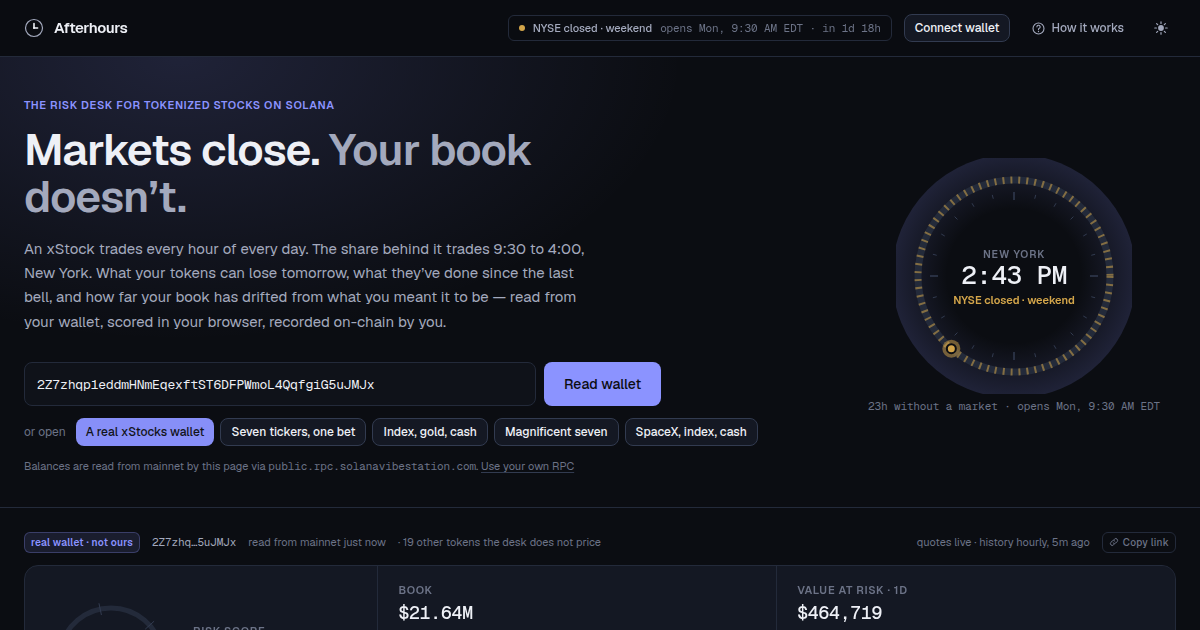
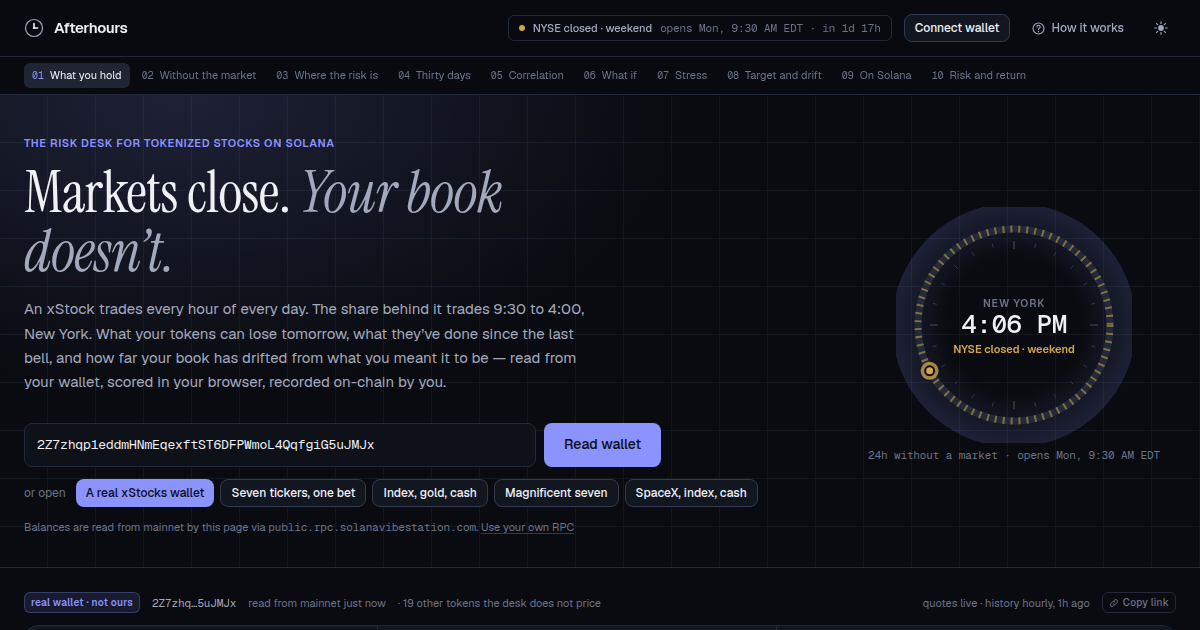
README, submission notes and screenshots for the ten-panel desk
The feature table covers every panel; the arithmetic section explains
the session split, stress, the model check and how thin names are
handled; the tour for judges walks the new panels in order; test count
and typefaces are current; the desk and social card are re-shot.

diff --git a/README.md b/README.md
@@ -15,7 +15,7 @@
 
 </div>
 
-![The Afterhours desk reading a real $21M xStocks wallet on mainnet: the New York session ring, risk score, book, one-day VaR, beta to the S&P 500, the move since the last NYSE close, holdings with each position's share of risk beside its weight, and a what-if moving half of MSTRx into SPYx](docs/desk.png)
+![The Afterhours desk reading a real $21M xStocks wallet on mainnet: the New York session ring, risk score, book, one-day VaR, beta to the S&P 500, the move since the last NYSE close, holdings with each position's share of risk beside its weight, a what-if moving half of MSTRx into SPYx, and the book under an S&P 500 −2% shock, position by position](docs/desk.png)
 
 <div align="center">
 <sub>A real wallet, not ours — eleven xStocks, cbBTC and stablecoins, read live. MSTRx is 18% of its value and 51% of its risk.</sub>
@@ -49,13 +49,16 @@ sit next to them — and scores the book in the browser:
 | **Score** | Annualised volatility plus a concentration penalty, 0–100. An index book runs near 18; a single large-cap 30–45; a crypto-heavy book past 60. Every figure on the page is computed in the tab from thirty days of hourly prices. |
 | **Value at Risk** | The 95% one-day loss in dollars, with Expected Shortfall — parametric and historical, the more conservative one headlines. |
 | **Beta to the S&P 500** | For the book and for every position, on the same estimator, against SPYx. |
-| **Since the close** | While the NYSE is closed: each stock's token move since the last official print, and the sum — *the market opens to this*. |
+| **What you hold** | Every position with a thirty-day sparkline, its share of value beside its share of risk, and — on a click — its full thirty days with the hours the NYSE was closed shaded. |
+| **Trading without the market** | While the NYSE is closed: each stock's token move since the last official print, and the sum — *the market opens to this*. Then every close the window had, as bars; then the share of the book's variance that fell in closed hours, per stock, with the per-hour comparison. |
 | **Stocks, crypto, cash** | Each sleeve's share of value beside its share of risk. Then the sentence a sector label hides: COIN, MSTR, HOOD, CRCL and the coin-treasury companies (STRC, BMNR, DFDV) are equity on paper and crypto beta in practice, and the desk says what share of the book is really riding crypto. |
-| **Risk of this allocation, last 30 days** | The current shape of the book, scored at every hour of the window with an estimator that has seen only what was known by then. |
+| **Thirty days** | The current shape of the book scored at every hour of the window with an estimator that has seen only what was known by then; its value and drawdown on the same axis; and the model marked against what happened — how many days the loss exceeded the VaR. |
 | **Correlation** | Thirty days of hourly returns across what is held, plus the index. The most correlated held pair is named. |
-| **Target and drift** | State the allocation you meant to hold. See the drift from it, and the trades that put it back — sized at the last quote, routed through USDC, with Jupiter prefilled. |
 | **What if** | Move a quarter, a half or all of any position into any other asset and re-score the whole book, instantly. |
-| **Your record on Solana** | Declare the policy on-chain. Record a snapshot. Both signed by the wallet that owns the book. |
+| **If the market gaps** | The book under an S&P 500 or crypto shock, every position by its beta to the factor — and under the worst day and the worst close-to-open the window actually had. A custom shock with two sliders. |
+| **Target and drift** | State the allocation you meant to hold. See the drift from it, and the trades that put it back — each one quoted live on Jupiter for its exact size, with price impact, route, and the gap to the feed. |
+| **Your record on Solana** | Declare the policy on-chain. Record a snapshot. Both signed by the wallet that owns the book. The snapshots draw as a line against the limit. |
+| **Risk and return, name by name** | Every asset the desk knows on a volatility-versus-return map; what is held is solid and sized by weight, the book is the ring, thin names are dashed. |
 
 Four sample books are built in for anyone without xStocks yet, labelled
 synthetic, priced live — and one real mainnet wallet, found through the
@@ -66,7 +69,10 @@ it matters, and there is a button to copy it.
 Above it all sits a ring of the New York day: the six and a half hours the
 NYSE is open as a short bright arc, the other seventeen and a half — and
 every weekend — as the time the tokens trade with no market behind them,
-and a dot for now.
+and a dot for now. A section bar under the top bar names the ten panels
+and lights the one in view; the number keys jump to them, `/` goes to the
+address, `?` opens the sheet that explains every figure, and every term
+on the page carries its definition on hover.
 
 ## Where Solana is load-bearing
 
@@ -124,6 +130,8 @@ There is no server. The site is a static export on GitHub Pages:
   from the bundle for anything it lacks, so a first paint never waits on a
   third party and a new listing never sits outside the model.
 - **Arithmetic** — every figure on the page is computed in the tab.
+- **Quotes for trades** — from Jupiter's public quote endpoint, one request
+  per proposed order, from the browser.
 - **On-chain** — signed by the viewer's own wallet.
 
 Nothing sleeps, nothing has a cold start, and nothing about a book leaves the
@@ -192,6 +200,23 @@ verified row.
 - **The backtest** seeds its recursive covariance from the first week's
   sample covariance, so the chart is the book's risk, not the estimator
   filling its memory.
+- **Where the moves happen**: every hourly return is sorted by whether the
+  NYSE was open in the middle of that hour, and the squared returns in each
+  class are summed. The share that fell in closed hours is the premise as a
+  number; the per-hour comparison is the fair one, since closed hours
+  outnumber open ones nearly three to one. Gaps are the move from the last
+  print before a close to the first after the next open.
+- **Stress** moves every position by its beta to the shocked factor — SPYx
+  or SOL — on the same estimator. The worst day is the current weights
+  applied to each asset's actual one-day returns; the worst gap is the
+  deepest close-to-open the equities carried.
+- **The model check** marks each day's VaR forecast against the book's move
+  over the day that followed, in non-overlapping days. About one in twenty
+  should breach at 95%.
+- **Thin names**: a series in which more than 1% of hours move more than 8%
+  is flagged as thinly traded — a stale print can sit for hours as a 40%
+  jump — and its hourly returns are clipped at ±8% inside every estimator.
+  Prices are never altered, and the page says which names were clipped.
 - **Market hours** are computed in `America/New_York` through `Intl`, with
   NYSE holidays and early closes through 2027, so daylight saving is the
   platform's problem.
@@ -207,7 +232,7 @@ git clone https://github.com/Abhist17/afterhours
 cd afterhours/app
 npm install
 npm run dev                 # http://localhost:3000
-npm test                    # 59 tests: quant, market hours, universe, history, portfolio assembly, on-chain encoding
+npm test                    # 82 tests: quant, sessions, scenarios, market hours, universe, history, Jupiter, portfolio, on-chain
 npm run build               # static export to out/
 
 cd ..
@@ -219,10 +244,10 @@ node scripts/example-record.mjs    # a policy and three snapshots from ~/.config
 
 | Layer | Technology |
 |:--|:--|
-| App | Next.js 16 static export · React 19 · Tailwind 4 · Geist · hand-rolled SVG |
+| App | Next.js 16 static export · React 19 · Tailwind 4 · Geist, Geist Mono, Instrument Serif · hand-rolled SVG |
 | Wallet | Wallet Standard via `@solana/wallet-adapter-react` |
 | Program | Rust · Anchor 0.32 |
-| Data | Solana mainnet RPC · CoinGecko · GitHub Actions |
+| Data | Solana mainnet RPC · CoinGecko · Jupiter quote API · GitHub Actions |
 
 ## Not investment advice
 

diff --git a/docs/SUBMISSION.md b/docs/SUBMISSION.md
@@ -31,22 +31,32 @@ stand to lose*, and none has ever had to price a share after the bell.
    and a ring of the New York day: the NYSE session as a short bright arc,
    the rest as the hours the tokens trade with no market behind them.
 2. **Since the close**: each stock's token move since the last official
-   print, summed — *the market opens to this*.
-3. **Stocks, crypto, cash** by share of value vs share of risk, and the
+   print, summed — *the market opens to this*. Under it, every close of
+   the last month as a bar, and the share of the book's variance that
+   happened while the NYSE was closed.
+3. Click **MSTRx** in the holdings: its thirty days with the closed hours
+   shaded — every move inside the shading happened with nobody able to
+   trade the share.
+4. **Stocks, crypto, cash** by share of value vs share of risk, and the
    line "COINx, MSTRx, HOODx, CRCLx are equity on paper … 60% of the book
    is riding crypto beta whatever the sector labels say".
-4. **What if**: move half of TSLAx into SPYx, watch the score, VaR, beta
+5. **If the market gaps**: S&P −5%, crypto −30%, and the window's own
+   worst day and worst close — each position by its beta.
+6. **What if**: move half of TSLAx into SPYx, watch the score, VaR, beta
    and effective assets move — instantly, no server.
-5. **Target and drift**: pick 60/40, see the drift and the exact sell/buy
-   orders with Jupiter links.
-6. **Your record on Solana**: connect Phantom, save the targets as an
+7. **Target and drift**: pick 60/40, see the drift and the exact sell/buy
+   orders — each quoted live on Jupiter with price impact and route.
+8. **Your record on Solana**: connect Phantom, save the targets as an
    on-chain policy, record a snapshot; each one an account on devnet.
    Without a wallet, the panel shows the author's own record — a policy
-   and three snapshots, one in breach — so the accounts are real either way.
+   and three snapshots, one in breach, drawn against the limit — so the
+   accounts are real either way.
 
 Paste any address holding xStocks to run it on a real book — or click "A
 real xStocks wallet", a $21M mainnet book found through the largest SPYx
-token accounts. Every view is a link, with a button to copy it.
+token accounts. Every view is a link, with a button to copy it. Number
+keys jump between the ten panels; `?` opens the sheet that explains every
+figure.
 
 ## Where Solana is load-bearing
 
@@ -58,7 +68,9 @@ token accounts. Every view is a link, with a button to copy it.
   share, NYSE open, timestamp), both owned and signed by the wallet they
   describe; `SnapshotRecorded { breached }` on every snapshot under a
   policy.
-- Rebalance orders link to Jupiter by mint.
+- Rebalance orders are quoted live on Jupiter for their exact size — what
+  the swap fetches on-chain now, its price impact and route — and link to
+  Jupiter by mint.
 
 ## Architecture: nothing to run
 
@@ -82,14 +94,19 @@ Nothing sleeps, nothing cold-starts.
   but the model has no series for stays in the book and is named as
   uncovered, with the model's coverage printed beside the VaR. Quotes
   that come from history rather than the feed say so.
+- Thinly traded names — where a stale print can sit for hours as a 40%
+  jump — are flagged, clipped at ±8% an hour inside the estimators, and
+  named on the page. Prices are shown as the feed gave them.
+- The VaR is marked against what happened: the page says how many days
+  the loss exceeded the forecast, against how many it should have.
 
 ## Numbers
 
 - 35 xStocks (every mint verified on mainnet: Token-2022, 8 decimals) +
   SOL, cbBTC, USDC, USDT, USDG · 5 program instructions · 1 event
-- 59 app tests (quant, NYSE calendar, universe integrity, history
-  loading, portfolio assembly, on-chain encoding) + 12 program tests on a
-  local validator, all in CI
+- 82 app tests (quant, session split, stress, NYSE calendar, universe
+  integrity, history loading, Jupiter quotes, portfolio assembly, on-chain
+  encoding) + 12 program tests on a local validator, all in CI
 - One static page; one hourly Action; zero servers
 
 ## What's next
